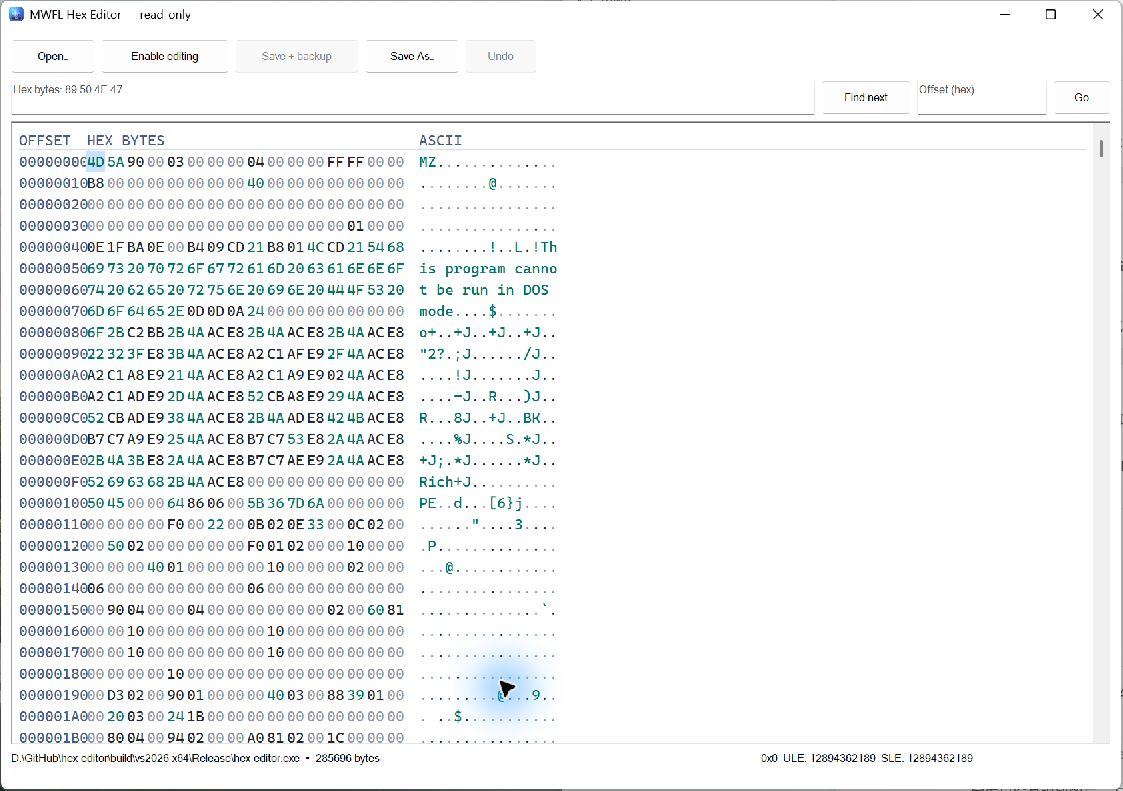
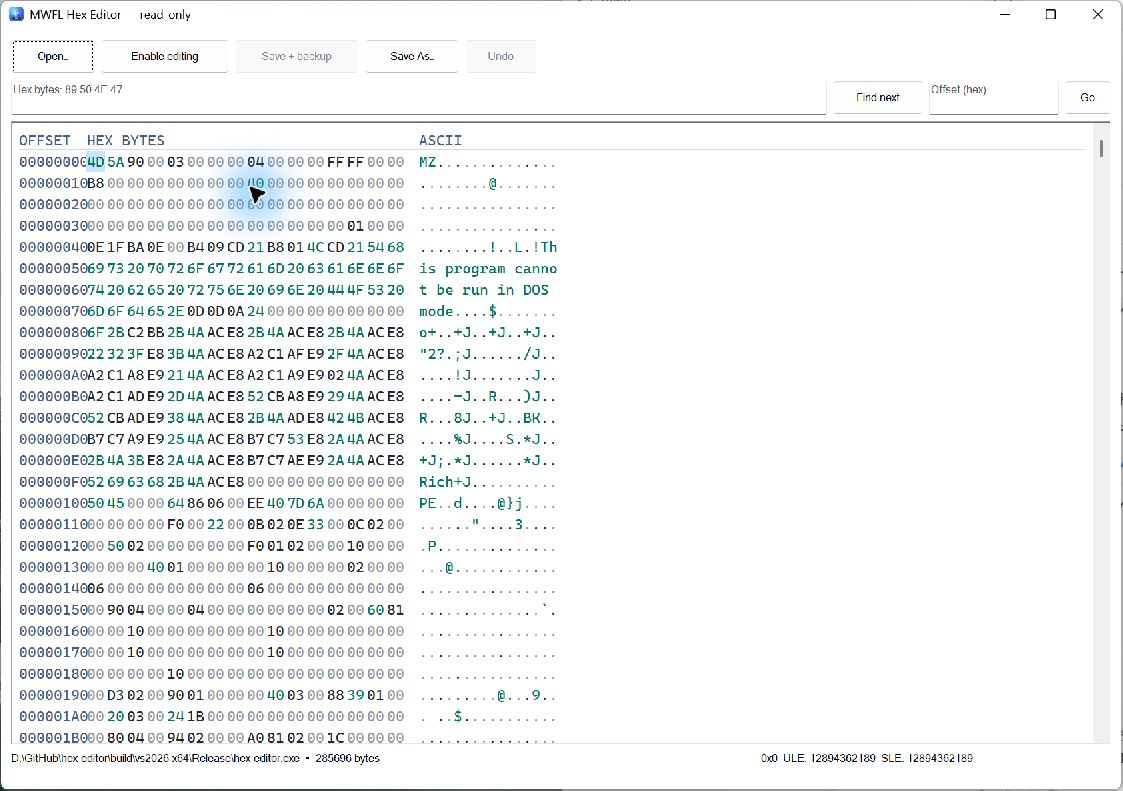
Compact the Go button

diff --git a/main.cpp b/main.cpp
@@ -22,7 +22,7 @@ public:
         view_.SetDocument(&document_); view_.SetAppearance(GetAppearanceState()); view_.changed = [this] { RefreshState(); };
         SetLayout(mwfl::Column().Gap(7.0_dip).Margin(10.0_dip)
             .Add(mwfl::Row().Gap(6.0_dip).Add(open_,mwfl::Fixed(84.0_dip)).Add(edit_,mwfl::Fixed(128.0_dip)).Add(save_,mwfl::Fixed(124.0_dip)).Add(save_as_,mwfl::Fixed(94.0_dip)).Add(undo_,mwfl::Fixed(72.0_dip)).Add(mwfl::Column(),mwfl::Stretch()),mwfl::Fixed(34.0_dip))
-            .Add(mwfl::Row().Gap(6.0_dip).Add(find_,mwfl::Stretch()).Add(search_,mwfl::Fixed(90.0_dip)).Add(offset_,mwfl::Fixed(130.0_dip)).Add(go_,mwfl::Fixed(58.0_dip)),mwfl::Fixed(34.0_dip))
+            .Add(mwfl::Row().Gap(6.0_dip).Add(find_,mwfl::Stretch()).Add(search_,mwfl::Fixed(90.0_dip)).Add(offset_,mwfl::Fixed(130.0_dip)).Add(go_,mwfl::Fixed(46.0_dip)),mwfl::Fixed(34.0_dip))
             .Add(view_,mwfl::Stretch())
             .Add(mwfl::Row().Gap(8.0_dip).Add(status_,mwfl::Stretch()).Add(inspector_,mwfl::Fixed(350.0_dip)),mwfl::Fixed(28.0_dip)));
         save_.SetEnabled(false); save_as_.SetEnabled(false); undo_.SetEnabled(false);
